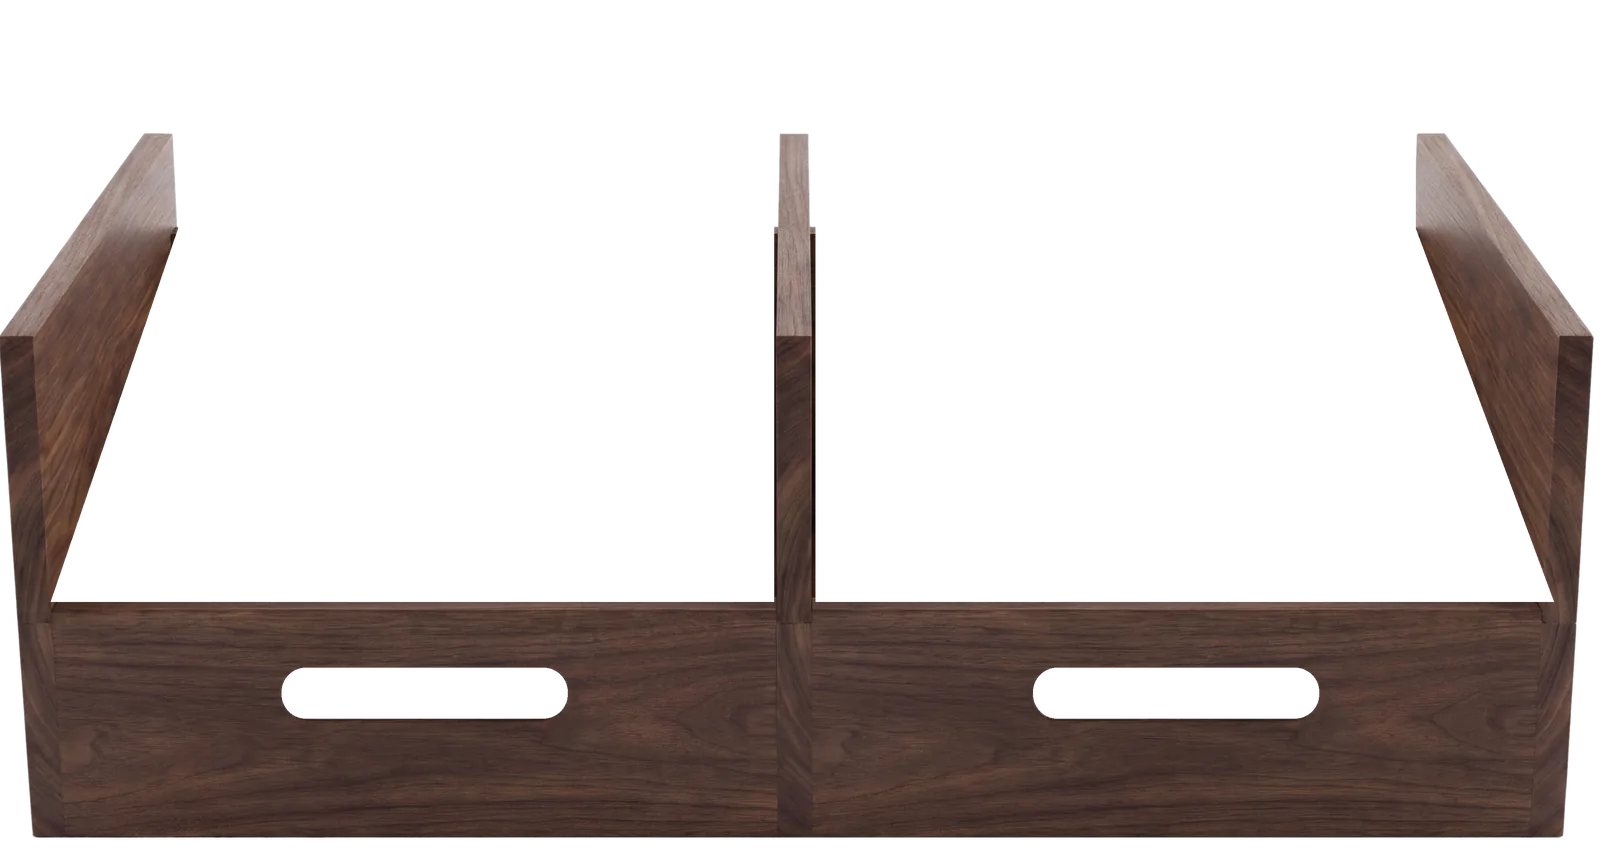
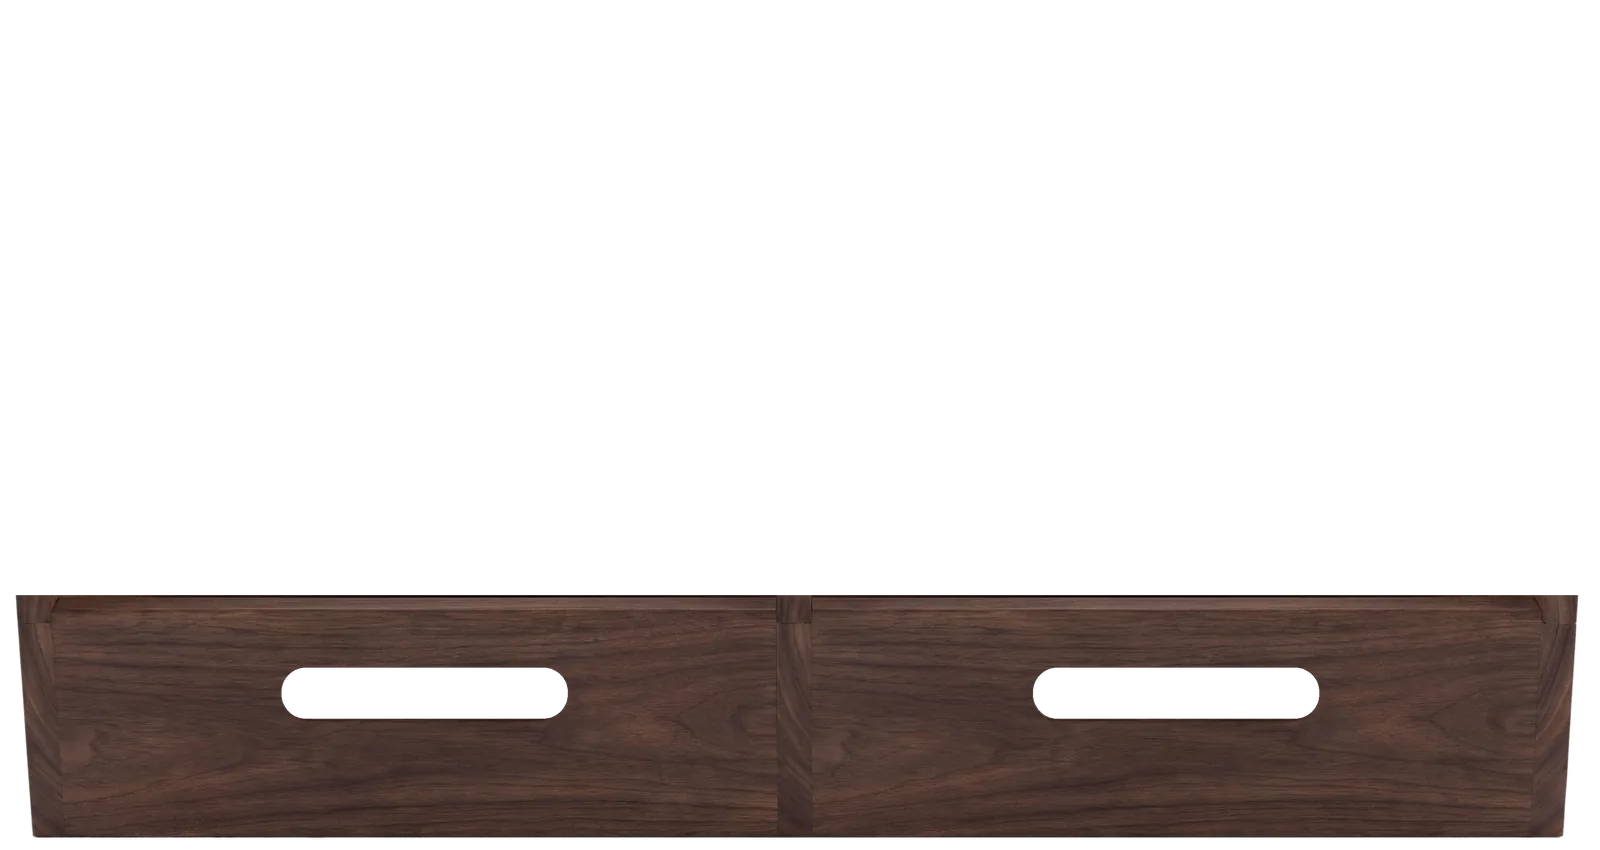
Desktop-Kiste: Maßstab und Perspektive je Kiste, keine Neigung, Seitenwände hinten
Claude-Session: https://claude.ai/code/session_012mfQg7Lu9fMBAMQ8AP7srm

Changed region(s): [[0.0, 0.1529, 1.0, 0.7341]]

diff --git a/app/kiste.js b/app/kiste.js
@@ -9,13 +9,17 @@
 
   // Maße im 800er-Raster des Originalbilds, Zuschnitt x 40–768, y 175–562 (README im Repo mopr: docs/design/bilder/ebenen)
   var W = 728, H = 387, X0 = 40, Y0 = 175;
+  // Innenraum je Kiste, gemessen im Bild: vorn (Oberkante Frontblende) und hinten (Rückwand).
+  // Wegen der Perspektive ist der Innenraum vorn breiter und liegt bei jeder Kiste anders –
+  // darum rechnet jede Kiste ihre Platten aus ihren eigenen Maßen (Georges 26.11.: „rechts wandern die Platten ins Holz“).
   var CRATES = [
-    { cx: 238, hole: [168, 479, 298, 502], label: [306, 516] },
-    { cx: 566, hole: [510, 479, 640, 502], label: [648, 516] }
+    { front: [63, 392], back: [121, 392], hole: [168, 479, 298, 502], label: [306, 516] },
+    { front: [411, 747], back: [411, 684], hole: [510, 479, 640, 502], label: [648, 516] }
   ];
-  var COVER = 262, FRONT_TOP = 449, VISIBLE = 0.75;   // ¾ des Covers über der Frontblende
-  var BEHIND = 3, STEP_UP = 13, STEP_IN = 4;          // 3 Platten dahinter, je etwas höher und schmaler
-  var TILT = 8;                                       // Neigung wie im Kistentest v4
+  var FRONT_TOP = 449, BACK_FLOOR = 445;   // Oberkante Frontblende, Boden an der Rückwand
+  var FILL = 0.97, VISIBLE = 0.72;         // LP füllt die Kiste fast ganz (31,4 cm in ~33 cm), ~¾ ragen heraus
+  var BEHIND = 3, F0 = 0.04, F_STEP = 0.035;  // vordere Platte knapp hinter der Front, jede weitere ein Stück tiefer
+  var TILT = 0;                            // keine künstliche Neigung (Georges: „schief“)
 
   var K = { pair: 0, side: 0, pos: {}, wheel: 0, crates: [], api: null, box: null };
   var reduce = window.matchMedia && window.matchMedia("(prefers-reduced-motion: reduce)").matches;
@@ -72,13 +76,24 @@
   function crateAt(side) { return K.crates[K.pair + side]; }
   function posOf(c) { var p = K.pos[c.key] || 0; return Math.max(0, Math.min(p, c.items.length - 1)); }
 
-  function coverHtml(api, i, depth) {
-    var w = COVER - depth * STEP_IN, top = FRONT_TOP - COVER * VISIBLE - depth * STEP_UP;
+  // Lage einer Platte in Tiefe f (0 = vorn, 1 = Rückwand): Breite, Mitte und Boden wandern perspektivisch nach hinten
+  function geo(g, depth) {
+    var f = F0 + depth * F_STEP;
+    var fw = (g.front[1] - g.front[0]) * FILL, bw = (g.back[1] - g.back[0]) * FILL;
+    var w = fw + (bw - fw) * f;
+    var cx = (g.front[0] + g.front[1]) / 2 + ((g.back[0] + g.back[1]) / 2 - (g.front[0] + g.front[1]) / 2) * f;
+    var floor0 = FRONT_TOP + fw * (1 - VISIBLE);           // Boden vorn: so, dass ~¾ der LP über die Front ragen
+    var floor = floor0 + (BACK_FLOOR - floor0) * f;
+    return { w: w, cx: cx, top: floor - w };
+  }
+
+  function coverHtml(api, i, depth, g) {
+    var q = geo(g, depth), w = q.w, top = q.top;
     var dim = depth ? " d" + depth : "";
     var face = i.cover_url
       ? '<img alt="" loading="lazy" decoding="async" referrerpolicy="no-referrer" src="' + api.esc(i.cover_url) + '">'
       : '<span class="kraft"><b>' + api.esc(api.cleanArtist(i.artist)) + "</b>" + api.esc(i.title || "") + "</span>";
-    return { w: w, top: top, html: face, cls: "kcover" + dim };
+    return { w: w, top: top, cx: q.cx, html: face, cls: "kcover" + dim };
   }
 
   function render(box, list, api) {
@@ -183,7 +198,7 @@
       reg.hidden = false;
       var p = posOf(c), html = "";
       for (var d = Math.min(BEHIND, c.items.length - 1 - p); d >= 0; d--) {
-        var i = c.items[p + d], cv = coverHtml(api, i, d);
+        var i = c.items[p + d], cv = coverHtml(api, i, d, g);
         var prev = c.items[p + d - 1];
         var tab = "";
         var L = letterOf(api, i);
@@ -191,7 +206,7 @@
           var off = (L === "#" ? 0 : (L.charCodeAt(0) - 65) / 25) * (cv.w - cv.w * 0.26);
           tab = '<button class="ktab" tabindex="-1" data-idx="' + (p + d) + '" style="left:' + (off / cv.w * 100).toFixed(2) + '%" aria-label="Trennkarte ' + L + '">' + L + "</button>";
         }
-        html += '<div class="' + cv.cls + (d === 0 ? " front" + (backAnim ? " kommt" : "") : "") + '" style="left:' + pctX(g.cx - cv.w / 2) +
+        html += '<div class="' + cv.cls + (d === 0 ? " front" + (backAnim ? " kommt" : "") : "") + '" style="left:' + pctX(cv.cx - cv.w / 2) +
           ";top:" + pctY(cv.top) + ";width:" + pctW(cv.w) + ";height:" + pctH(cv.w) + ";transform:perspective(900px) rotateX(" + TILT + "deg)" +
           '"' + (d === 0 ? ' role="button" tabindex="-1" aria-label="' + api.esc(api.cleanArtist(i.artist) + " – " + i.title + ", öffnen") + '"' : ' aria-hidden="true"') + ">" +
           tab + cv.html + "</div>";
